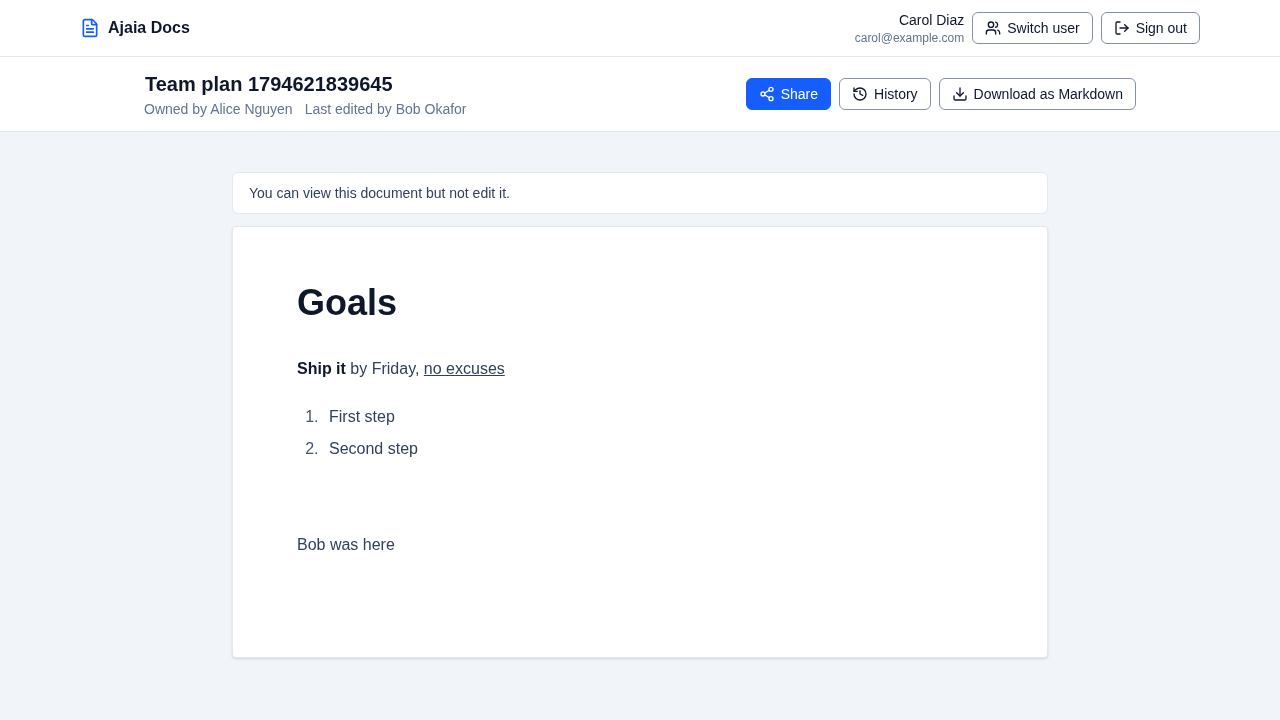
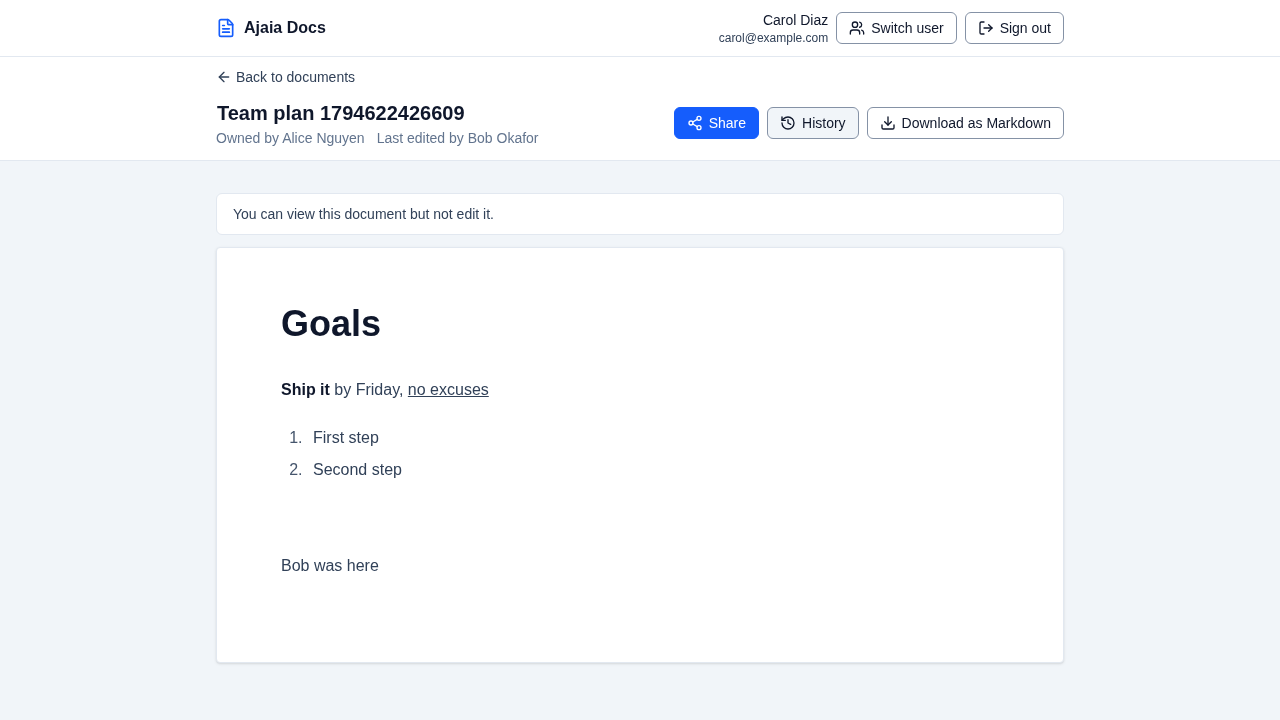
Line up the nav bar, document header, toolbar and page; add a back link; taller page; clearer email text; welcome doc without the underline

diff --git a/src/pages/EditorPage.tsx b/src/pages/EditorPage.tsx
@@ -4,7 +4,7 @@ import { EditorContent, useEditor } from "@tiptap/react";
 import { Button } from "@ui-sdk/react/button";
 import { Field, FieldLabel } from "@ui-sdk/react/field";
 import { Input } from "@ui-sdk/react/input";
-import { Download } from "lucide-react";
+import { ArrowLeft, Download } from "lucide-react";
 import { useCallback, useRef, useState } from "react";
 import { Link, useParams } from "react-router";
 import { api, ApiError } from "../api";
@@ -16,6 +16,7 @@ import { Toolbar } from "../components/Toolbar";
 import { useAutosave } from "../hooks/useAutosave";
 import type { SaveStatus } from "../hooks/useAutosave";
 import { editorExtensions } from "../lib/extensions";
+import { contentWidth } from "../layout";
 import { handleApiError, useUser } from "../session";
 
 export function EditorPage() {
@@ -155,7 +156,16 @@ function DocumentEditor({ initial }: { initial: DocumentDetail }) {
   return (
     <>
       <div className="border-b border-slate-200 bg-white">
-        <div className="mx-auto flex max-w-5xl flex-wrap items-center gap-x-4 gap-y-2 px-4 py-3">
+        <div className={`${contentWidth} pt-2.5`}>
+          <Link
+            to="/"
+            className="inline-flex items-center gap-1 rounded text-sm font-medium text-slate-700 no-underline hover:text-blue-700"
+          >
+            <ArrowLeft className="size-4" aria-hidden />
+            Back to documents
+          </Link>
+        </div>
+        <div className={`${contentWidth} flex flex-wrap items-center gap-x-4 gap-y-2 pt-1.5 pb-3`}>
           <div className="min-w-0 flex-1 basis-60">
             <Field>
               <FieldLabel className="sr-only">Document title</FieldLabel>
@@ -215,8 +225,8 @@ function DocumentEditor({ initial }: { initial: DocumentDetail }) {
 
       {canEdit && <Toolbar editor={editor} />}
 
-      <main className="flex-1 px-2 py-6 sm:px-6 sm:py-10">
-        <div className="mx-auto max-w-[816px] space-y-3">
+      <main className="flex-1 py-6 sm:py-8">
+        <div className={`${contentWidth} space-y-3`}>
           {!canEdit && (
             <p className="rounded-md border border-slate-200 bg-white px-4 py-2.5 text-sm text-slate-700">
               You can view this document but not edit it.
@@ -242,7 +252,7 @@ function DocumentEditor({ initial }: { initial: DocumentDetail }) {
             </p>
           )}
           <div
-            className="min-h-[60vh] rounded-sm border border-slate-200 bg-white px-5 py-8 shadow-sm sm:px-16 sm:py-14"
+            className="min-h-[calc(100dvh-19rem)] rounded-sm border border-slate-200 bg-white px-5 py-8 shadow-sm sm:px-16 sm:py-14"
             onMouseDown={(event) => {
               if (!canEdit || event.target !== event.currentTarget) return;
               event.preventDefault();

diff --git a/src/components/Header.tsx b/src/components/Header.tsx
@@ -4,6 +4,7 @@ import { FileText, LogOut, Users } from "lucide-react";
 import { useState } from "react";
 import { Link } from "react-router";
 import { DEMO_ACCOUNTS } from "../demoAccounts";
+import { contentWidth } from "../layout";
 import { signOut, switchUser, useUser } from "../session";
 
 export function Header() {
@@ -25,7 +26,7 @@ export function Header() {
 
   return (
     <header className="border-b border-slate-200 bg-white">
-      <div className="mx-auto flex max-w-6xl items-center gap-3 px-4 py-2.5">
+      <div className={`${contentWidth} flex items-center gap-3 py-2.5`}>
         <Link to="/" className="flex shrink-0 items-center gap-2 rounded font-semibold text-slate-900 no-underline">
           <FileText className="size-5 text-blue-600" aria-hidden />
           Ajaia Docs
@@ -33,7 +34,7 @@ export function Header() {
         <div className="ml-auto flex min-w-0 items-center gap-2">
           <div className="min-w-0 text-right leading-tight">
             <p className="truncate text-sm font-medium text-slate-900">{user.name}</p>
-            <p className="truncate text-xs text-slate-500">{user.email}</p>
+            <p className="truncate text-xs text-slate-700">{user.email}</p>
           </div>
           <Menu onAction={(email) => void run(() => switchUser(email))}>
             <MenuTrigger className="shrink-0" disabled={busy}>
@@ -61,7 +62,7 @@ export function Header() {
         </div>
       </div>
       {error && (
-        <p role="alert" className="mx-auto max-w-6xl px-4 pb-2 text-sm text-red-700">
+        <p role="alert" className={`${contentWidth} pb-2 text-sm text-red-700`}>
           {error}
         </p>
       )}

diff --git a/src/components/Toolbar.tsx b/src/components/Toolbar.tsx
@@ -8,6 +8,7 @@ import type { LucideIcon } from "lucide-react";
 import { Bold, Italic, List, ListOrdered, Quote, Redo2, Strikethrough, Underline, Undo2 } from "lucide-react";
 import { useRef } from "react";
 import type { ReactElement } from "react";
+import { contentWidth } from "../layout";
 
 const blockTypes = [
   { value: "paragraph", label: "Normal text" },
@@ -76,7 +77,7 @@ export function Toolbar({ editor }: { editor: Editor }) {
     <div className="sticky top-0 z-20 border-b border-slate-200 bg-white/95 backdrop-blur">
       <ToolbarRoot
         aria-label="Formatting"
-        className="mx-auto flex max-w-5xl flex-nowrap gap-1 overflow-x-auto rounded-none border-0 bg-transparent px-4 py-1.5"
+        className={`${contentWidth} flex flex-nowrap gap-1 overflow-x-auto rounded-none border-0 bg-transparent py-1.5`}
         // A mouse click on a button must not take focus out of the document.
         // If it does, the next keystrokes go to the button and are lost, and the
         // pending bold or italic is dropped when focus comes back.

diff --git a/scripts/make-seed.ts b/scripts/make-seed.ts
@@ -42,8 +42,8 @@ const welcome = {
     list("orderedList", [
       [text("Format some text with the toolbar, then refresh the page. Changes save on their own.")],
       [text("Go back to the document list and import a "), text(".docx", "bold"), text(", "), text(".md", "bold"), text(" or "), text(".txt", "bold"), text(" file.")],
-      [text("Press "), text("Share", "underline"), text(", add a person and pick Can edit or Can view.")],
-      [text("Switch to Bob and change something. Switch back to Alice, open History, and restore the version from before his change.")],
+      [text("Press "), text("Share", "bold"), text(", add a person and pick Can edit or Can view.")],
+      [text("Switch to Bob and change something. Switch back to Alice, open "), text("History", "bold"), text(", and restore the version from before his change.")],
       [text("Download the document as Markdown.")],
     ]),
     heading(2, "How sharing works"),

diff --git a/src/pages/DocumentsPage.tsx b/src/pages/DocumentsPage.tsx
@@ -16,6 +16,7 @@ import { api } from "../api";
 import type { DocumentSummary } from "../api";
 import { Header } from "../components/Header";
 import { formatRelativeTime, roleLabels } from "../lib/format";
+import { contentWidth } from "../layout";
 
 async function importDocument(file: File) {
   // Loaded on first use so mammoth stays out of the main bundle.
@@ -53,7 +54,7 @@ export function DocumentsPage() {
   return (
     <div className="min-h-dvh bg-slate-50">
       <Header />
-      <main className="mx-auto max-w-4xl px-4 py-8">
+      <main className={`${contentWidth} py-8`}>
         <div className="flex flex-wrap items-center gap-3">
           <h1 className="mr-auto text-2xl font-semibold text-slate-900">Documents</h1>
           <Button

diff --git a/src/layout.ts b/src/layout.ts
@@ -1,0 +1,3 @@
+// One content width for the nav bar, the document header, the toolbar, the page
+// and the document list, so their left and right edges line up.
+export const contentWidth = "mx-auto w-full max-w-4xl px-4 sm:px-6";
